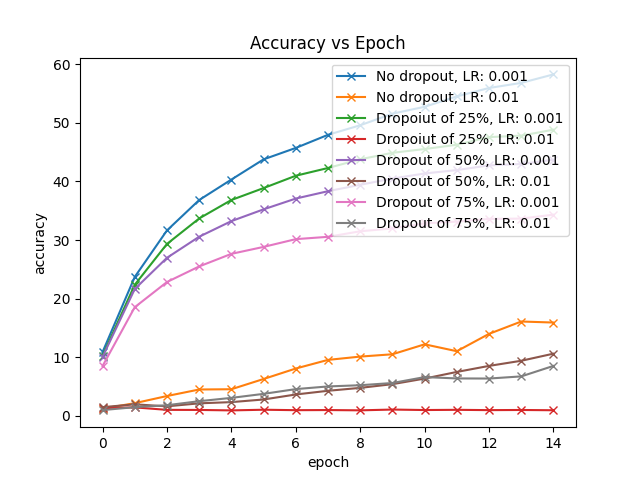
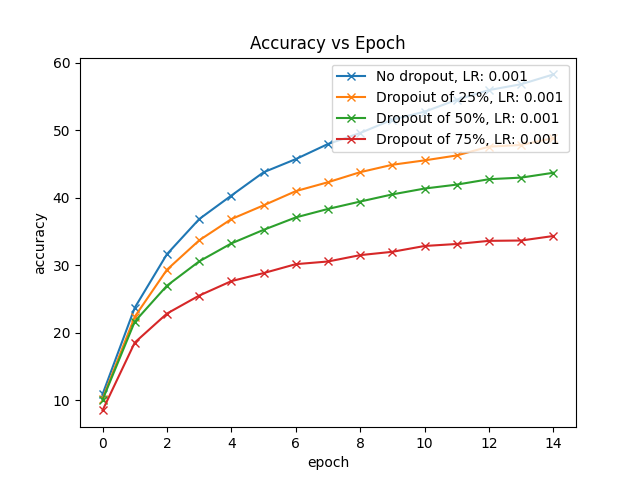
Some results had an incredibly large loss

diff --git a/dropout.py b/dropout.py
@@ -35,7 +35,7 @@ class Dropout(nn.Module):
 
 
 if __name__ == "__main__":
-    TRAIN = True
+    TRAIN = False
     EPOCHS = 15
     BATCHS_SIZE = 64
 
@@ -66,19 +66,19 @@ if __name__ == "__main__":
     configs = [
         # no dropout
         {'name': 'No dropout, LR: 0.001', 'label': "NDO 0.001", 'model': net_no_dropout_lr1, 'save_model': 'net_no_dropout_lr1', 'save_stats': 'net_no_dropout_training_lr1', 'LR': 0.001},
-        {'name': 'No dropout, LR: 0.01', 'label': "NDO 0.01", 'model': net_no_dropout_lr2, 'save_model': 'net_no_dropout_lr2', 'save_stats': 'net_no_dropout_training_lr2', 'LR': 0.01},
+        # {'name': 'No dropout, LR: 0.01', 'label': "NDO 0.01", 'model': net_no_dropout_lr2, 'save_model': 'net_no_dropout_lr2', 'save_stats': 'net_no_dropout_training_lr2', 'LR': 0.01},
         
         # dropout p = 0.25
         {'name': 'Dropoiut of 25%, LR: 0.001', 'label': "DO 25% .001", 'model': net_dropout_25_lr1, 'save_model': 'net_dropout_25_lr1', 'save_stats': 'net_dropout_25_training_lr1', 'LR': 0.001},
-        {'name': 'Dropoiut of 25%, LR: 0.01',  'label': "DO 25% .01", 'model': net_dropout_25_lr2, 'save_model': 'net_dropout_25_lr2', 'save_stats': 'net_dropout_25_training_lr2', 'LR': 0.01},
+        # {'name': 'Dropoiut of 25%, LR: 0.01',  'label': "DO 25% .01", 'model': net_dropout_25_lr2, 'save_model': 'net_dropout_25_lr2', 'save_stats': 'net_dropout_25_training_lr2', 'LR': 0.01},
 
         # dropout p = 0.50
         {'name': 'Dropout of 50%, LR: 0.001', 'label': "DO 50% .001", 'model': net_dropout_50_lr1, 'save_model': 'net_dropout_50_lr1', 'save_stats': 'net_dropout_50_lr1', 'LR': 0.001},
-        {'name': 'Dropout of 50%, LR: 0.01',  'label': "DO 50% .01", 'model': net_dropout_50_lr2, 'save_model': 'net_dropout_50_lr2', 'save_stats': 'net_dropout_50_lr2', 'LR': 0.01},
+        # {'name': 'Dropout of 50%, LR: 0.01',  'label': "DO 50% .01", 'model': net_dropout_50_lr2, 'save_model': 'net_dropout_50_lr2', 'save_stats': 'net_dropout_50_lr2', 'LR': 0.01},
         
         # dropout p = 0.75
         {'name': 'Dropout of 75%, LR: 0.001',  'label': "DO 75% .001", 'model': net_dropout_75_lr1, 'save_model': 'net_dropout_75_lr1', 'save_stats': 'net_dropout_75_lr1', 'LR': 0.001},
-        {'name': 'Dropout of 75%, LR: 0.01',  'label': "DO 75% .01", 'model': net_dropout_75_lr2, 'save_model': 'net_dropout_75_lr2', 'save_stats': 'net_dropout_75_lr2', 'LR': 0.01}
+        # {'name': 'Dropout of 75%, LR: 0.01',  'label': "DO 75% .01", 'model': net_dropout_75_lr2, 'save_model': 'net_dropout_75_lr2', 'save_stats': 'net_dropout_75_lr2', 'LR': 0.01}
     ]
 
     # Train the network on the Adam optimizer, using the training data loader, for 3 epochs
@@ -97,14 +97,14 @@ if __name__ == "__main__":
             stats = train(net, optimizer, train_dataloader, epochs=EPOCHS, loader_description=config['name'])
 
             # Save the model for use later in the checkpoints directory (src/checkpoints) as 'example_model.pt'
-            save_model(net, config['save_model'])
+            # save_model(net, config['save_model'])
 
             # Save the stats from the training loop for later
-            save_stats(stats, config['save_stats'])
+            # save_stats(stats, config['save_stats'])
 
             test_stats = test(net, test_dataloader, loader_description=f'TESTING: {config["name"]}')
 
-            save_stats(stats, f'test_{config["save_stats"]}')
+            # save_stats(stats, f'test_{config["save_stats"]}')
 
 
     # Models have run, lets plot the stats
@@ -129,7 +129,7 @@ if __name__ == "__main__":
     plt.show()
 
     for t_stat, label in zip(test_stats, labels):
-        print(f'{label} got test accuracy of {t_stat["accuracy"]}')
+        print(f'{label} got test accuracy of {t_stat["epoch_1"]["accuracy"]}')
 
 
     ## Just training for now ##
